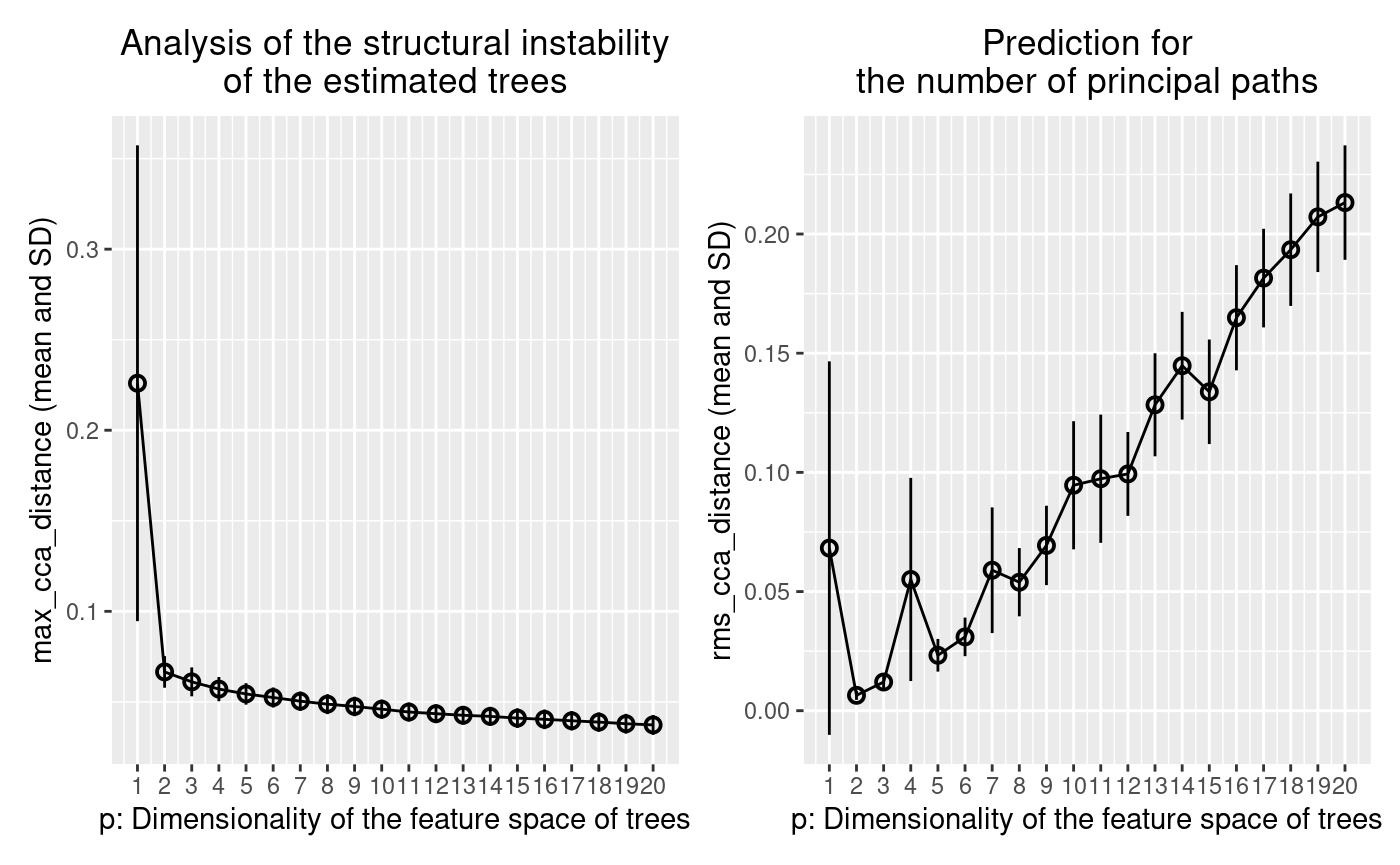
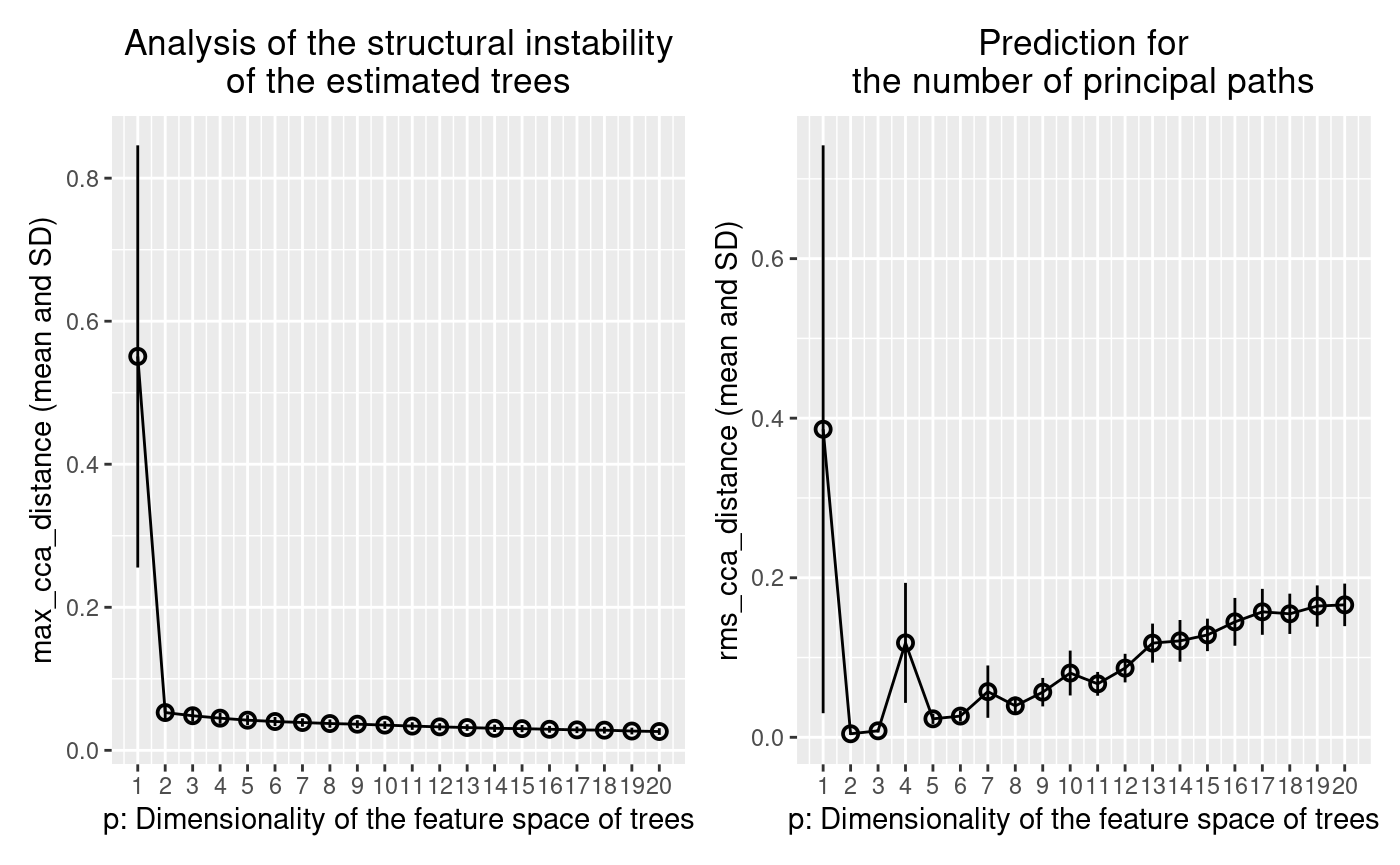
Update document

diff --git a/docs/1.0.0/articles/treefit.html b/docs/1.0.0/articles/treefit.html
@@ -152,52 +152,52 @@ Figure 2. A scatter plot of noisy toy data generated by Treefit
 ## 
 ## $max_cca_distance
 ##     p       mean standard_deviation
-## 1   1 0.22596644        0.131369439
-## 2   2 0.06654401        0.008720935
-## 3   3 0.06104865        0.007974235
-## 4   4 0.05706521        0.006685047
-## 5   5 0.05437292        0.005925095
-## 6   6 0.05240580        0.005555954
-## 7   7 0.05037415        0.005343806
-## 8   8 0.04874842        0.005506639
-## 9   9 0.04746295        0.005377301
-## 10 10 0.04596835        0.005274989
-## 11 11 0.04439535        0.005232126
-## 12 12 0.04347351        0.005261102
-## 13 13 0.04260412        0.005208329
-## 14 14 0.04199325        0.005269242
-## 15 15 0.04102906        0.005411027
-## 16 16 0.04036370        0.005424262
-## 17 17 0.03956672        0.005349805
-## 18 18 0.03882964        0.005372703
-## 19 19 0.03792751        0.005462420
-## 20 20 0.03727894        0.005484570
+## 1   1 0.55075748        0.295152585
+## 2   2 0.05282841        0.011250033
+## 3   3 0.04836375        0.008326639
+## 4   4 0.04498072        0.007764938
+## 5   5 0.04215453        0.007021882
+## 6   6 0.04028631        0.006404281
+## 7   7 0.03889834        0.005861562
+## 8   8 0.03746658        0.005826251
+## 9   9 0.03654838        0.005560472
+## 10 10 0.03530630        0.005412446
+## 11 11 0.03391219        0.005334934
+## 12 12 0.03279749        0.005027512
+## 13 13 0.03184447        0.004632820
+## 14 14 0.03079164        0.005158985
+## 15 15 0.03032913        0.005089620
+## 16 16 0.02944990        0.004742920
+## 17 17 0.02859885        0.004535915
+## 18 18 0.02821034        0.004726382
+## 19 19 0.02697429        0.004682989
+## 20 20 0.02629895        0.004644076
 ## 
 ## $rms_cca_distance
-##     p       mean standard_deviation
-## 1   1 0.06822793        0.078350065
-## 2   2 0.00645674        0.001935635
-## 3   3 0.01204046        0.003467894
-## 4   4 0.05506443        0.042621997
-## 5   5 0.02325940        0.006851026
-## 6   6 0.03097093        0.008089125
-## 7   7 0.05894464        0.026372548
-## 8   8 0.05391623        0.014313603
-## 9   9 0.06934991        0.016650306
-## 10 10 0.09459052        0.026868812
-## 11 11 0.09732465        0.026900586
-## 12 12 0.09934220        0.017596909
-## 13 13 0.12834631        0.021626170
-## 14 14 0.14474796        0.022605777
-## 15 15 0.13380273        0.021931032
-## 16 16 0.16489061        0.022067820
-## 17 17 0.18149808        0.020683156
-## 18 18 0.19342085        0.023602897
-## 19 19 0.20719369        0.023151799
-## 20 20 0.21319506        0.024019501
+##     p        mean standard_deviation
+## 1   1 0.386093094        0.355902505
+## 2   2 0.004445216        0.001347847
+## 3   3 0.008125625        0.002152448
+## 4   4 0.118346203        0.075208736
+## 5   5 0.023179910        0.006409222
+## 6   6 0.026623067        0.006876387
+## 7   7 0.057261099        0.032819509
+## 8   8 0.039431833        0.011493049
+## 9   9 0.056610085        0.017852111
+## 10 10 0.080547118        0.028101564
+## 11 11 0.067021555        0.014906772
+## 12 12 0.086741067        0.017903318
+## 13 13 0.118063153        0.024482119
+## 14 14 0.120893058        0.026177577
+## 15 15 0.128355981        0.020320677
+## 16 16 0.144708908        0.029950960
+## 17 17 0.157279519        0.028757340
+## 18 18 0.154808392        0.025252766
+## 19 19 0.164531609        0.025881230
+## 20 20 0.166017212        0.026683104
 ## 
 ## $n_principal_paths_candidates
-## [1]  3  6  9 16
+## [1]  3  6  9 12 19
 ## 
 ## attr(,"class")
 ## [1] "treefit"</code></pre>
@@ -222,52 +222,52 @@ Figure 3. The output for the tree-like data shown in Figure 1
 ## 
 ## $max_cca_distance
 ##     p      mean standard_deviation
-## 1   1 0.6791411         0.21269644
-## 2   2 0.3281294         0.06294319
-## 3   3 0.2937990         0.05528991
-## 4   4 0.2774734         0.05252662
-## 5   5 0.2540611         0.04692745
-## 6   6 0.2327823         0.04253976
-## 7   7 0.2124666         0.04229612
-## 8   8 0.2018415         0.03749598
-## 9   9 0.1919281         0.03433777
-## 10 10 0.1801408         0.03177917
-## 11 11 0.1721367         0.03054401
-## 12 12 0.1632324         0.02969724
-## 13 13 0.1584631         0.02912984
-## 14 14 0.1530006         0.02648883
-## 15 15 0.1474552         0.02541587
-## 16 16 0.1410868         0.02394288
-## 17 17 0.1355738         0.02268048
-## 18 18 0.1319197         0.02237975
-## 19 19 0.1276560         0.02177896
-## 20 20 0.1230736         0.02212501
+## 1   1 0.7367661         0.17251185
+## 2   2 0.3145901         0.05940385
+## 3   3 0.2784573         0.04657130
+## 4   4 0.2502306         0.04956849
+## 5   5 0.2179339         0.03610071
+## 6   6 0.2066148         0.03485894
+## 7   7 0.1918900         0.03399583
+## 8   8 0.1797404         0.03513654
+## 9   9 0.1706186         0.03215176
+## 10 10 0.1611807         0.03060067
+## 11 11 0.1541710         0.03105990
+## 12 12 0.1421262         0.02905220
+## 13 13 0.1375927         0.02975507
+## 14 14 0.1309917         0.03043510
+## 15 15 0.1219639         0.02773730
+## 16 16 0.1172879         0.02970911
+## 17 17 0.1134824         0.02943468
+## 18 18 0.1091956         0.02929274
+## 19 19 0.1044447         0.02717214
+## 20 20 0.1010550         0.02554468
 ## 
 ## $rms_cca_distance
 ##     p      mean standard_deviation
-## 1   1 0.5062343         0.28833871
-## 2   2 0.1950086         0.08847534
-## 3   3 0.3455653         0.08626334
-## 4   4 0.3990795         0.07600929
-## 5   5 0.4239944         0.07565372
-## 6   6 0.4352736         0.07328852
-## 7   7 0.4482049         0.06061554
-## 8   8 0.4465194         0.05640291
-## 9   9 0.4387855         0.05258550
-## 10 10 0.4346610         0.05127156
-## 11 11 0.4338550         0.05140223
-## 12 12 0.4325893         0.04884063
-## 13 13 0.4255882         0.04505665
-## 14 14 0.4214152         0.04370296
-## 15 15 0.4184190         0.04294220
-## 16 16 0.4133813         0.04308140
-## 17 17 0.4086389         0.04173956
-## 18 18 0.4071760         0.04076939
-## 19 19 0.4051143         0.03926657
-## 20 20 0.4045444         0.03747649
+## 1   1 0.5710967         0.23905355
+## 2   2 0.1570196         0.04121545
+## 3   3 0.2817225         0.07363345
+## 4   4 0.3199340         0.07301458
+## 5   5 0.3344652         0.05445127
+## 6   6 0.3570829         0.06308638
+## 7   7 0.3939299         0.05879377
+## 8   8 0.3908146         0.06101238
+## 9   9 0.3904636         0.05629186
+## 10 10 0.3925027         0.05315770
+## 11 11 0.3896287         0.04959599
+## 12 12 0.3931934         0.04250830
+## 13 13 0.3833093         0.03587312
+## 14 14 0.3599875         0.04136109
+## 15 15 0.3666039         0.04490245
+## 16 16 0.3703423         0.04495045
+## 17 17 0.3777163         0.04063165
+## 18 18 0.3905978         0.03973656
+## 19 19 0.3891108         0.03931917
+## 20 20 0.3815202         0.03796965
 ## 
 ## $n_principal_paths_candidates
-## [1] 3
+## [1]  3 10 12 15
 ## 
 ## attr(,"class")
 ## [1] "treefit"</code></pre>

diff --git a/docs/1.0.0/articles/working-with-seurat.html b/docs/1.0.0/articles/working-with-seurat.html
@@ -176,52 +176,52 @@ Figure 1. The result of PCA for the myoblast dataset
 ## 
 ## $max_cca_distance
 ##     p      mean standard_deviation
-## 1   1 0.6150181         0.20035629
-## 2   2 0.3862646         0.09641148
-## 3   3 0.3080679         0.06988802
-## 4   4 0.2622481         0.05659627
-## 5   5 0.2325727         0.05451137
-## 6   6 0.2161560         0.05324286
-## 7   7 0.2053388         0.05241781
-## 8   8 0.1932199         0.04760399
-## 9   9 0.1859130         0.04727221
-## 10 10 0.1770134         0.04827995
-## 11 11 0.1682951         0.04725410
-## 12 12 0.1609364         0.04646812
-## 13 13 0.1556156         0.04468993
-## 14 14 0.1500890         0.04355796
-## 15 15 0.1445428         0.04165193
-## 16 16 0.1372101         0.04025165
-## 17 17 0.1316259         0.03909679
-## 18 18 0.1271484         0.03821897
-## 19 19 0.1213532         0.03758293
-## 20 20 0.1157450         0.03882316
+## 1   1 0.6303459         0.12773201
+## 2   2 0.4017539         0.07430735
+## 3   3 0.3255355         0.05479342
+## 4   4 0.2699334         0.04228203
+## 5   5 0.2500198         0.04335692
+## 6   6 0.2348225         0.03919659
+## 7   7 0.2269746         0.03631043
+## 8   8 0.2185274         0.03309986
+## 9   9 0.2096228         0.03344765
+## 10 10 0.2022596         0.03228294
+## 11 11 0.1928535         0.03540076
+## 12 12 0.1878315         0.03622790
+## 13 13 0.1811885         0.03879294
+## 14 14 0.1725552         0.03903983
+## 15 15 0.1501188         0.03806641
+## 16 16 0.1423743         0.03696181
+## 17 17 0.1332141         0.03425474
+## 18 18 0.1301240         0.03567304
+## 19 19 0.1261766         0.03589544
+## 20 20 0.1229404         0.03627929
 ## 
 ## $rms_cca_distance
 ##     p      mean standard_deviation
-## 1   1 0.4181786         0.24284076
-## 2   2 0.2719592         0.11066493
-## 3   3 0.3929241         0.08185576
-## 4   4 0.4137113         0.08656280
-## 5   5 0.4081869         0.07307618
-## 6   6 0.3754475         0.06744206
-## 7   7 0.3452512         0.05621375
-## 8   8 0.3361627         0.05983272
-## 9   9 0.3536620         0.05850633
-## 10 10 0.3560816         0.05678432
-## 11 11 0.3543060         0.05153126
-## 12 12 0.3614376         0.05290455
-## 13 13 0.3692791         0.04616979
-## 14 14 0.3774891         0.04449013
-## 15 15 0.3785213         0.04284612
-## 16 16 0.3806086         0.04449632
-## 17 17 0.3855746         0.04227578
-## 18 18 0.3882486         0.04136043
-## 19 19 0.3878840         0.04022275
-## 20 20 0.3805700         0.03984112
+## 1   1 0.4128356         0.16762578
+## 2   2 0.2743234         0.07251555
+## 3   3 0.3849682         0.07709205
+## 4   4 0.4149403         0.08252252
+## 5   5 0.4310958         0.06496787
+## 6   6 0.3586742         0.07095145
+## 7   7 0.3380313         0.06377325
+## 8   8 0.3739542         0.05738832
+## 9   9 0.3735670         0.06623482
+## 10 10 0.3657720         0.05637900
+## 11 11 0.3632138         0.05275275
+## 12 12 0.3826324         0.04703776
+## 13 13 0.3896167         0.04848040
+## 14 14 0.3893737         0.04267768
+## 15 15 0.3940595         0.04583882
+## 16 16 0.3916372         0.04443135
+## 17 17 0.3991275         0.03560390
+## 18 18 0.4121476         0.03607119
+## 19 19 0.4139794         0.04205234
+## 20 20 0.4216135         0.03807688
 ## 
 ## $n_principal_paths_candidates
-## [1]  3  9 12
+## [1]  3  8 12 15 17
 ## 
 ## attr(,"class")
 ## [1] "treefit"</code></pre>
